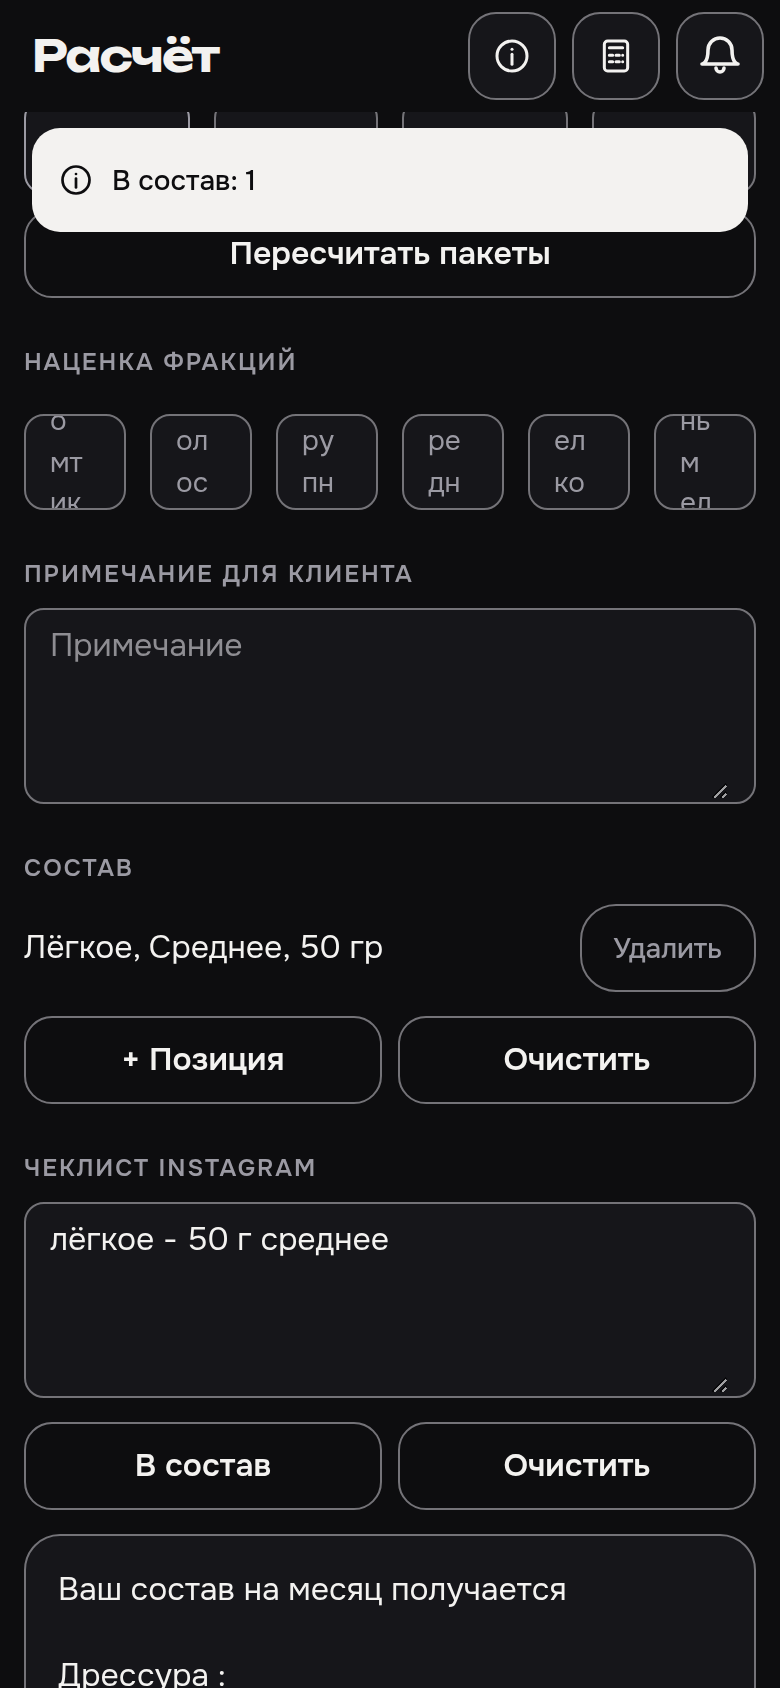
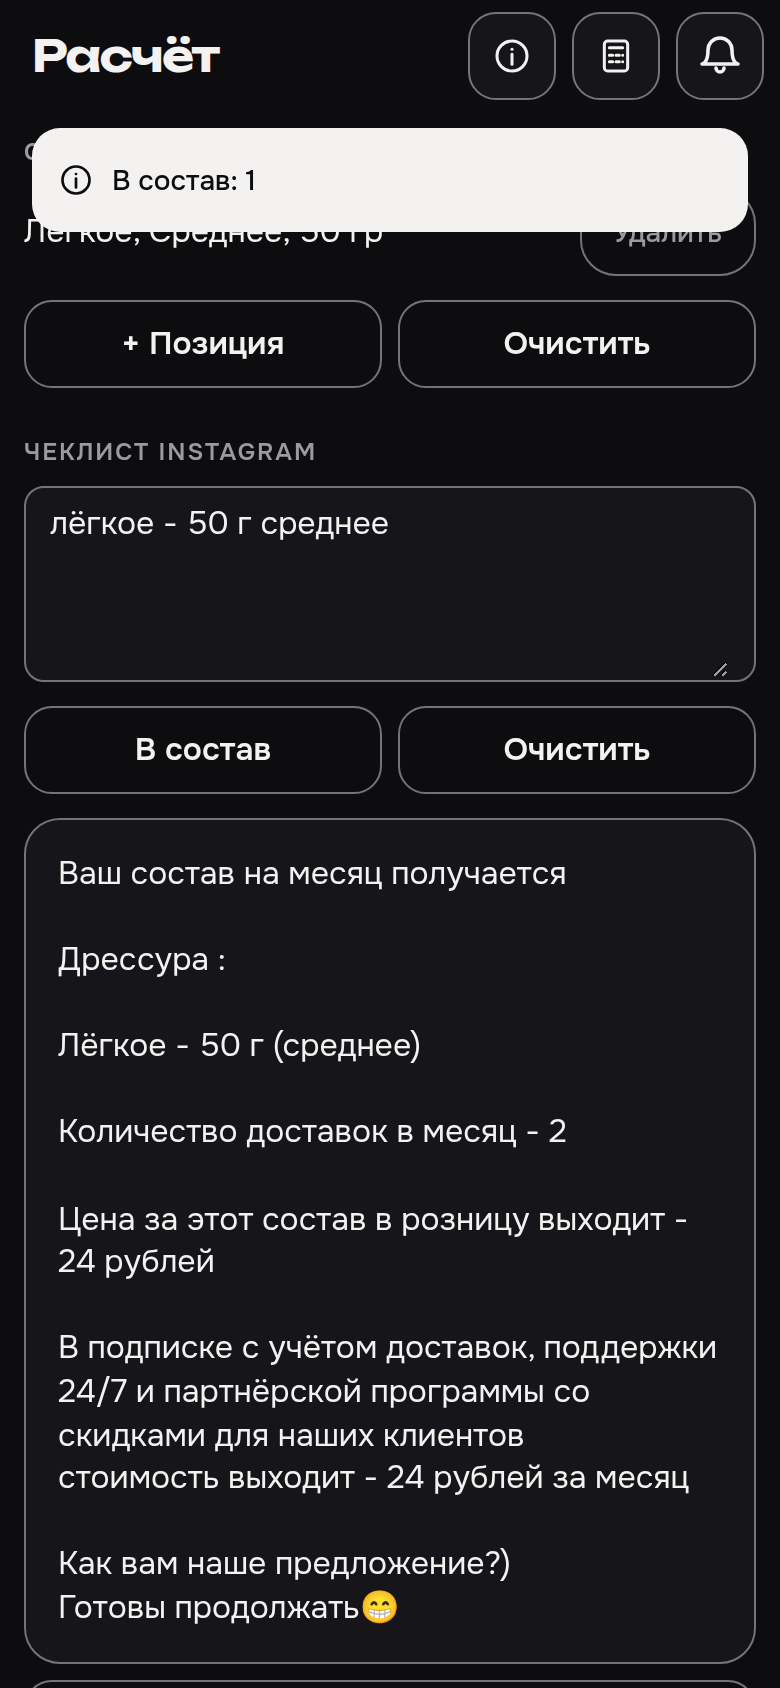
Кап RAW26 снова на состав, пакеты прибавляются сверху.
Без пакетов цена и текст совпадают с main. Потолок 92% больше не съедает сумму пакетов, второй кап в тексте пропускается только когда пакеты есть.

diff --git a/boinya-c/next/clients.js b/boinya-c/next/clients.js
@@ -1004,7 +1004,7 @@
       deliveriesN: price.deliveriesN,
       costSum: cost,
       list: list,
-      packagesByn: packagesByn,
+      packagesByn: 0,
       dogCount: price.dogCount,
       dogNames: price.dogNames,
       fracRates: fracRates(),
@@ -1012,9 +1012,10 @@
     });
     var retail = eng().calcRetailBasketTotal(list, { deliveriesN: price.deliveriesN });
     var fact = res ? P().raw26ApiFactPrice_(res) : 0;
-    var sub = Number(quote.total) || 0;
-    if (!(cost > 0) && fact > 0) sub = fact;
-    var message = P().offerMessage({
+    var sub = fact > 0 ? fact : quote.total;
+    if (price.scheme === "RAW26") sub = P().capOfferSubToDisplayedRetail_(sub, retail.total) || sub;
+    if (packagesByn) sub = Math.round((sub + packagesByn) * 100) / 100;
+    var messageOpts = {
       scheme: price.scheme,
       mode: "pp",
       list: list,
@@ -1023,9 +1024,10 @@
       retailTotal: retail.total,
       subTotal: sub,
       dogCount: price.dogCount,
-      dogNames: price.dogNames,
-      asEntered: true
-    });
+      dogNames: price.dogNames
+    };
+    if (packagesByn) messageOpts.asEntered = true;
+    var message = P().offerMessage(messageOpts);
     return { sub: sub, message: message, packagesByn: packagesByn, cost: cost, fact: fact };
   }
 
